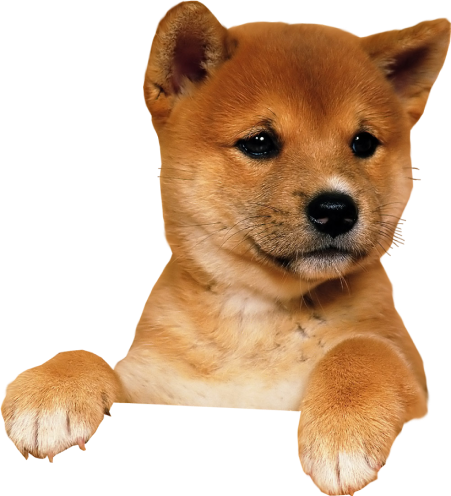
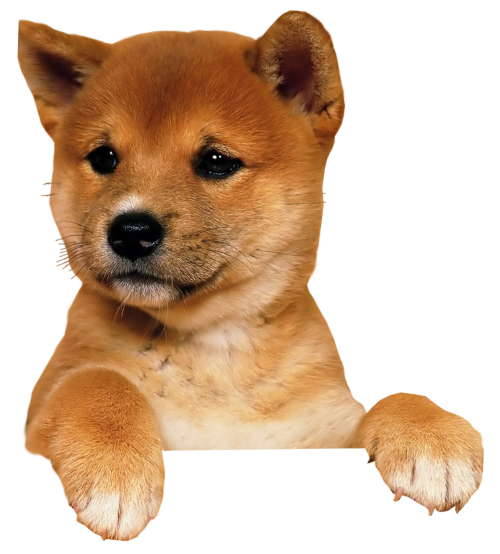
Карточка с псом и контактами v.1

diff --git a/src/html/views/contacts.html b/src/html/views/contacts.html
@@ -5,11 +5,30 @@
 
 <div class="container">
     <div class="row">
-        <img class="cont-doggo" src="img/cont-doggo.png">
-        <div class="col-sm">
-            <div class="space-75"></div>
+        <div class="col-8">
+            <div class="space-17"></div>
             <h1><span class="vet-big-text">Контакты</span></h1>
             <div class="space-22"></div>
+            <p>
+                Единый коллцентр
+                <br>
+                8-800-648-59-95
+            </p>
+            <p>
+                Единый коллцентр
+                <br>
+                8-800-648-59-95
+            </p>
+            <p>
+                Единый коллцентр
+                <br>
+                8-800-648-59-95
+            </p>
+            <p>
+                Единый коллцентр
+                <br>
+                8-800-648-59-95
+            </p>
             <p>
                 Единый коллцентр
                 <br>
@@ -27,9 +46,29 @@
                     <input class="form-control cont-search-field" placeholder="Введите адрес...">
                 </div>
                 <a role="button" class="btn btn-primary cont-search-btn" href="#">Найти</a>
-                </form>
+            </form>
                 
-                <iframe class="cont-map" src="https://yandex.ru/map-widget/v1/?um=constructor%3A52c33eea804f339ec2a49b4a888368b0bd63ca9f446aa528bc4da6f3469a6457&amp;source=constructor" width="100%" height="500" frameborder="0"></iframe>
+            <iframe class="cont-map" src="https://yandex.ru/map-widget/v1/?um=constructor%3A52c33eea804f339ec2a49b4a888368b0bd63ca9f446aa528bc4da6f3469a6457&amp;source=constructor" width="100%" height="500" frameborder="0"></iframe>
+
+        </div>
+
+        <div class="col-4 doggo-tilt">
+            <img class="cont-doggo" src="img/cont-doggo.png">
+            <div class="cont-card">
+                <div>
+                    <p>
+                        <span>Единый коллцентр</span>
+                        <br>
+                        <a href="tel:+78006485995">8-800-648-59-95</a>
+                        <span></span>
+                    </p>
+                    <p>
+                        <span>Служба поддержки</span>
+                        <br>
+                        <a href="mailto:support@rezo-clinic.ru">support@rezo-clinic.ru</a>
+                    </p>
+                </div>
+            </div>
         </div>
     </div>
 </div>

diff --git a/src/scss/contacts.scss b/src/scss/contacts.scss
@@ -1,0 +1,43 @@
+.cont-doggo {
+    width: 217px;
+    height: 243px;
+    display: block;
+    margin-left: auto;
+    margin-right: auto;
+}
+
+.cont-text {
+    margin-bottom: 0px;
+}
+
+.cont-map {
+    margin-top: 13px;
+}
+.cont-search-btn {
+    width: 115px;
+}
+
+.cont-search-field {
+ /*    width: 980px !important; */
+    margin-right: 12px;
+}
+
+.cont-card {
+    display: flex;
+    align-items: center;
+    justify-content: center;
+    background-color: white;
+    height: 207px;
+    width: 322px;
+    margin-top: -45px;
+    margin-left: auto;
+    margin-right: auto;
+    border-radius: 6px;
+    box-shadow: 0px 4px 8px rgba(0, 0, 0, 0.25);
+    padding-top: 25px;
+    text-align: center;
+}
+
+.doggo-tilt {
+    transform: rotate(5.44deg);
+}

diff --git a/src/scss/common.scss b/src/scss/common.scss
@@ -36,33 +36,12 @@ body {
     height: 22px;
 }
 
+.space-17 {
+    height: 17px;
+}
+
 .space-248 {
     height: 248px;
-}
-
-.cont-text {
-    margin-bottom: 0px;
-}
-
-.cont-map {
-    margin-top: 13px;
-}
-.cont-search-btn {
-    width: 115px;
-}
-
-.cont-search-field {
-    width: 980px !important;
-    margin-right: 12px;
-}
-
-.cont-doggo {
-    position: absolute;
-    right: 690px;
-    height: 230px;
-    top: 199px;
-    z-index: 1;
-    transform: scaleX(-1);
 }
 
 .vet-doggo-cato {

diff --git a/src/scss/style.scss b/src/scss/style.scss
@@ -2,6 +2,7 @@ $font-stack: -apple-system, BlinkMacSystemFont, Roboto, "Open Sans", "Helvetica 
 
 @import "~bootstrap/scss/bootstrap";
 @import "common.scss";
+@import "contacts.scss";
 @import "hamburgers.scss";
 @import "header.scss";
 @import "main-page.scss";

diff --git a/src/scss/header.scss b/src/scss/header.scss
@@ -44,7 +44,7 @@
         margin-left: auto;
         margin-right: auto;
     }
-  }
+}
 
 @include media-breakpoint-down(md) {
     .nav-item { 
@@ -53,5 +53,4 @@
         margin-left: auto;
         margin-right: auto;
     }
-    
-  }
+}
